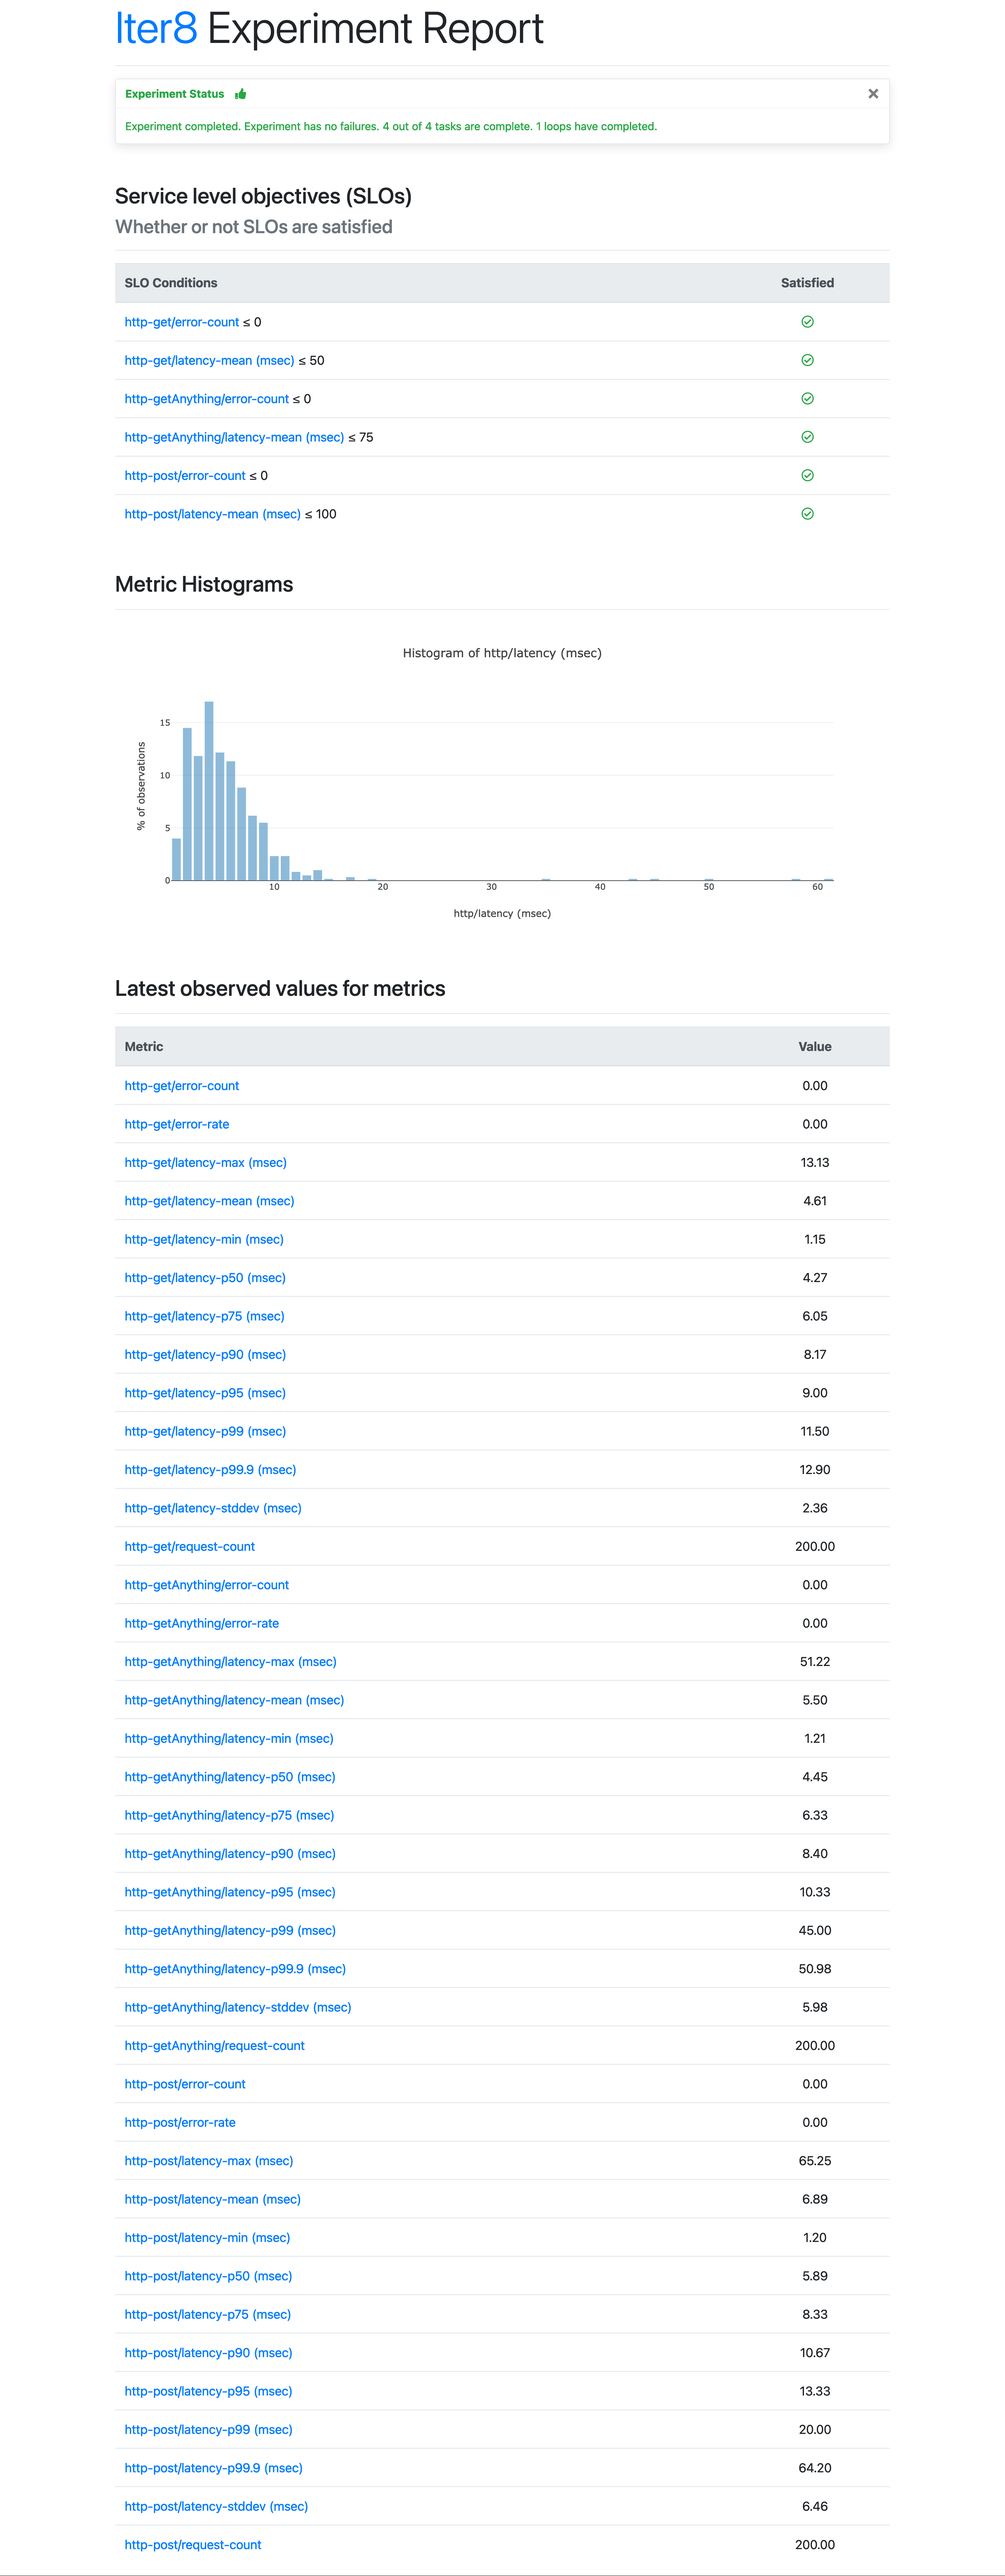
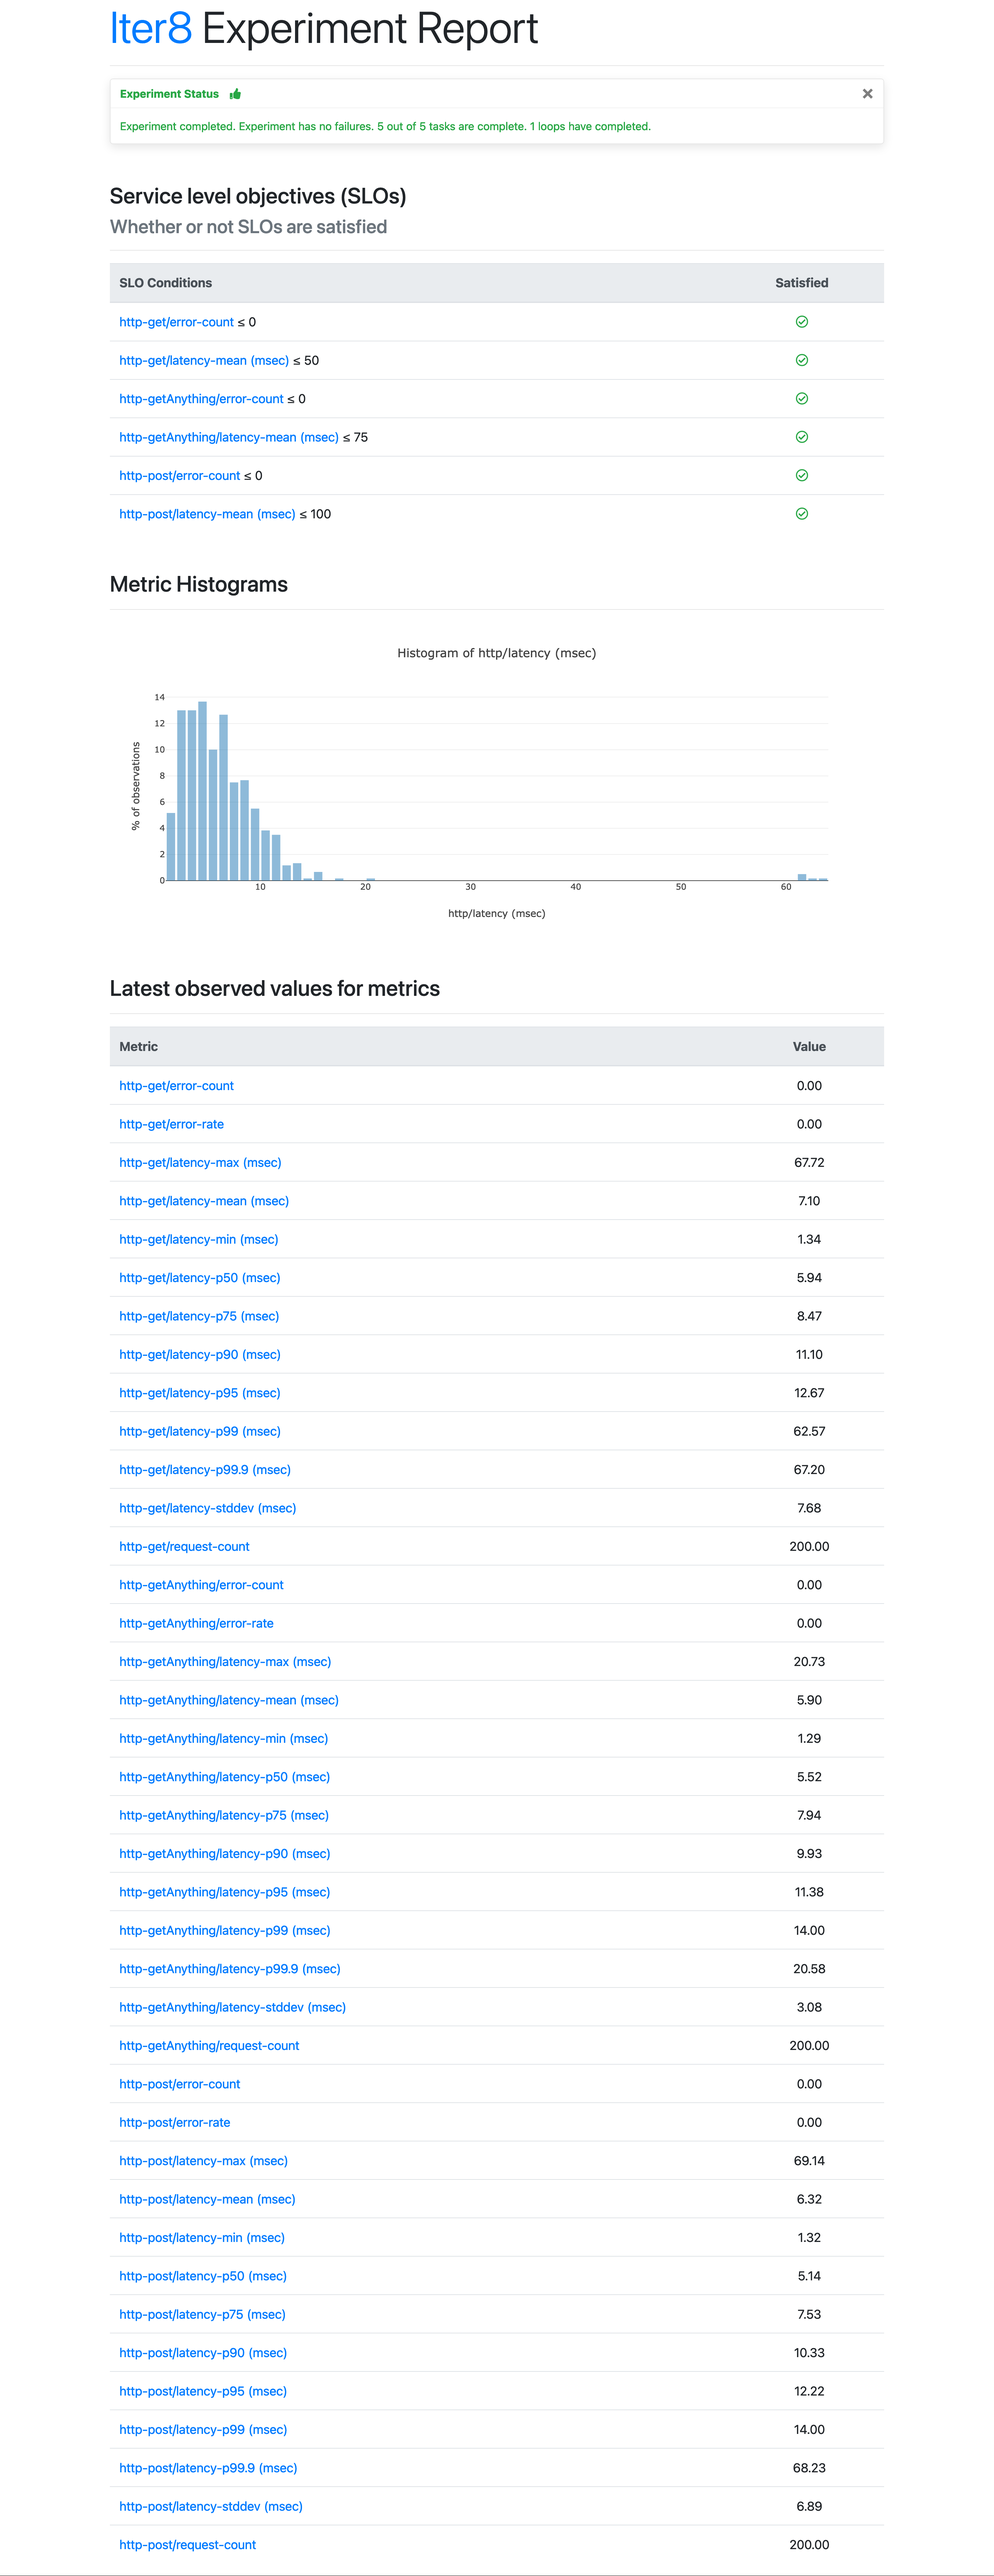
Add warmup

diff --git a/README.md b/README.md
@@ -64,6 +64,7 @@ helm install autox autox --repo https://iter8-tools.github.io/hub/ --version 0.1
 --set groups.httpbin.specs.iter8.values.ready.service=httpbin \
 --set groups.httpbin.specs.iter8.values.ready.timeout=60s \
 --set groups.httpbin.specs.iter8.values.http.numRequests=200 \
+--set groups.httpbin.specs.iter8.values.http.warmupDuration=5s \
 --set groups.httpbin.specs.iter8.values.http.endpoints.get.url=http://httpbin.default/get \
 --set groups.httpbin.specs.iter8.values.http.endpoints.getAnything.url=http://httpbin.default/anything \
 --set groups.httpbin.specs.iter8.values.http.endpoints.post.url=http://httpbin.default/post \
@@ -84,7 +85,7 @@ To go into more detail, the configuration is composed of a set of *groups*, and 
 
 The trigger object definition is a combination of the name, namespace, and the group-version-resource (GVR) metadata of the trigger object, in this case `httpbin`, `default`, and GVR `apps`, `deployments`, and `v1`, respectively. 
 
-The experiment is an HTTP SLO validation test on the `httpbin` service that is described in greater detail [here](https://iter8.tools/0.13/getting-started/your-first-experiment/). This Iter8 experiment is composed of three tasks, `ready`, `http`, and `assess`. The `ready` task will ensure that the `httpbin` deployment and service are running. The `http` task will generate load for the specified endpoints, `get`, `getAnything`, and `post`, and collect latency and error-related metrics. Lastly, the `assess` task will ensure that the error count is 0 for each endpoint and the mean latency is less than 50, 75, and 100 milliseconds for `get`, `getAnything`, and `post`, respectively. In addition, the runner is set to job as this will be a [single-loop experiment](https://iter8.tools/0.11/getting-started/concepts/#iter8-experiment).
+The experiment is an HTTP SLO validation test on the `httpbin` service that is described in greater detail [here](https://iter8.tools/0.13/getting-started/your-first-experiment/). This Iter8 experiment is composed of three tasks, `ready`, `http`, and `assess`. The `ready` task will ensure that the `httpbin` deployment and service are running. The `http` task will generate load for the specified endpoints, `get`, `getAnything`, and `post`, and collect latency and error-related metrics. In addition, thanks to the `warmup` parameter, the `http` task will only begin to send load after five seconds to ensure that the application has had enough time to run fully functionally. Lastly, the `assess` task will ensure that the error count is 0 for each endpoint and the mean latency is less than 50, 75, and 100 milliseconds for `get`, `getAnything`, and `post`, respectively. In addition, the runner is set to job as this will be a [single-loop experiment](https://iter8.tools/0.11/getting-started/concepts/#iter8-experiment).
 
 ### Observe experiment
 
@@ -118,8 +119,8 @@ iter8 k report -g autox-httpbin-iter8
 
   Experiment completed: true
   No task failures: true
-  Total number of tasks: 4
-  Number of completed tasks: 4
+  Total number of tasks: 5
+  Number of completed tasks: 5
   Number of completed loops: 1
 
 Whether or not service level objectives (SLOs) are satisfied:
@@ -142,42 +143,42 @@ Latest observed values for metrics:
   -------                                | -----
   http-get/error-count                   | 0.00
   http-get/error-rate                    | 0.00
-  http-get/latency-max (msec)            | 13.13
-  http-get/latency-mean (msec)           | 4.61
-  http-get/latency-min (msec)            | 1.15
-  http-get/latency-p50 (msec)            | 4.27
-  http-get/latency-p75 (msec)            | 6.05
-  http-get/latency-p90 (msec)            | 8.17
-  http-get/latency-p95 (msec)            | 9.00
-  http-get/latency-p99 (msec)            | 11.50
-  http-get/latency-p99.9 (msec)          | 12.90
-  http-get/latency-stddev (msec)         | 2.36
+  http-get/latency-max (msec)            | 67.72
+  http-get/latency-mean (msec)           | 7.10
+  http-get/latency-min (msec)            | 1.34
+  http-get/latency-p50 (msec)            | 5.94
+  http-get/latency-p75 (msec)            | 8.47
+  http-get/latency-p90 (msec)            | 11.10
+  http-get/latency-p95 (msec)            | 12.67
+  http-get/latency-p99 (msec)            | 62.57
+  http-get/latency-p99.9 (msec)          | 67.20
+  http-get/latency-stddev (msec)         | 7.68
   http-get/request-count                 | 200.00
   http-getAnything/error-count           | 0.00
   http-getAnything/error-rate            | 0.00
-  http-getAnything/latency-max (msec)    | 51.22
-  http-getAnything/latency-mean (msec)   | 5.50
-  http-getAnything/latency-min (msec)    | 1.21
-  http-getAnything/latency-p50 (msec)    | 4.45
-  http-getAnything/latency-p75 (msec)    | 6.33
-  http-getAnything/latency-p90 (msec)    | 8.40
-  http-getAnything/latency-p95 (msec)    | 10.33
-  http-getAnything/latency-p99 (msec)    | 45.00
-  http-getAnything/latency-p99.9 (msec)  | 50.98
-  http-getAnything/latency-stddev (msec) | 5.98
+  http-getAnything/latency-max (msec)    | 20.73
+  http-getAnything/latency-mean (msec)   | 5.90
+  http-getAnything/latency-min (msec)    | 1.29
+  http-getAnything/latency-p50 (msec)    | 5.52
+  http-getAnything/latency-p75 (msec)    | 7.94
+  http-getAnything/latency-p90 (msec)    | 9.93
+  http-getAnything/latency-p95 (msec)    | 11.38
+  http-getAnything/latency-p99 (msec)    | 14.00
+  http-getAnything/latency-p99.9 (msec)  | 20.58
+  http-getAnything/latency-stddev (msec) | 3.08
   http-getAnything/request-count         | 200.00
   http-post/error-count                  | 0.00
   http-post/error-rate                   | 0.00
-  http-post/latency-max (msec)           | 65.25
-  http-post/latency-mean (msec)          | 6.89
-  http-post/latency-min (msec)           | 1.20
-  http-post/latency-p50 (msec)           | 5.89
-  http-post/latency-p75 (msec)           | 8.33
-  http-post/latency-p90 (msec)           | 10.67
-  http-post/latency-p95 (msec)           | 13.33
-  http-post/latency-p99 (msec)           | 20.00
-  http-post/latency-p99.9 (msec)         | 64.20
-  http-post/latency-stddev (msec)        | 6.46
+  http-post/latency-max (msec)           | 69.14
+  http-post/latency-mean (msec)          | 6.32
+  http-post/latency-min (msec)           | 1.32
+  http-post/latency-p50 (msec)           | 5.14
+  http-post/latency-p75 (msec)           | 7.53
+  http-post/latency-p90 (msec)           | 10.33
+  http-post/latency-p95 (msec)           | 12.22
+  http-post/latency-p99 (msec)           | 14.00
+  http-post/latency-p99.9 (msec)         | 68.23
+  http-post/latency-stddev (msec)        | 6.89
   http-post/request-count                | 200.00 -->
 
 You can also produce an HTML report that you can view in the browser.
@@ -256,11 +257,12 @@ helm install autox autox --repo https://iter8-tools.github.io/hub/ --version 0.1
 --set groups.routeguide.specs.iter8.values.ready.service=routeguide \
 --set groups.routeguide.specs.iter8.values.ready.timeout=60s \
 --set groups.routeguide.specs.iter8.values.grpc.host=routeguide.default:50051 \
+--set groups.routeguide.specs.iter8.values.grpc.protoURL=https://raw.githubusercontent.com/iter8-tools/docs/v0.13.13/samples/route_guide/routeguide/route_guide.proto \
+--set groups.routeguide.specs.iter8.values.grpc.warmupDuration=5s \
 --set groups.routeguide.specs.iter8.values.grpc.endpoints.getFeature.call=routeguide.RouteGuide.GetFeature \
 --set groups.routeguide.specs.iter8.values.grpc.endpoints.getFeature.dataURL=https://raw.githubusercontent.com/iter8-tools/docs/v0.13.13/samples/grpc-payload/unary.json \
 --set groups.routeguide.specs.iter8.values.grpc.endpoints.listFeatures.call=routeguide.RouteGuide.ListFeatures \
 --set groups.routeguide.specs.iter8.values.grpc.endpoints.listFeatures.dataURL=https://raw.githubusercontent.com/iter8-tools/docs/v0.13.13/samples/grpc-payload/server.json \
---set groups.routeguide.specs.iter8.values.grpc.protoURL=https://raw.githubusercontent.com/iter8-tools/docs/v0.13.13/samples/route_guide/routeguide/route_guide.proto \
 --set groups.routeguide.specs.iter8.values.assess.SLOs.upper.grpc-getFeature/error-count=0 \
 --set groups.routeguide.specs.iter8.values.assess.SLOs.upper.grpc-getFeature/latency/mean=50 \
 --set groups.routeguide.specs.iter8.values.assess.SLOs.upper.grpc-listFeatures/error-count=0 \
@@ -275,7 +277,7 @@ In this tutorial, there is only one group named `routeguide` (`groups.routeguide
 
 The trigger object definition is a combination of the name, namespace, and the group-version-resource (GVR) metadata of the trigger object, in this case `routeguide`, `default`, and GVR `apps`, `deployments`, and `v1`, respectively.
 
-The experiment is a gRPC SLO validation test on the `routeguide` service that is described in greater detail [here](https://iter8.tools/0.13/tutorials/load-test-grpc/). This Iter8 experiment is composed of three tasks, `ready`, `grpc`, and `assess`. The `ready` task will ensure that the `routeguide` deployment and service are running. The `grpc` task will generate load for the specified endpoints, `getFeature` and `listFeatures`, and collect latency and error-related metrics. Lastly, the `assess` task will ensure that the error count is 0 for both endpoints and the mean latency is less than 50 and 100 milliseconds for `getFeature` and `listFeatures`, respectively. In addition, the runner is set to job as this will be a [single-loop experiment](https://iter8.tools/0.11/getting-started/concepts/#iter8-experiment).
+The experiment is a gRPC SLO validation test on the `routeguide` service that is described in greater detail [here](https://iter8.tools/0.13/tutorials/load-test-grpc/). This Iter8 experiment is composed of three tasks, `ready`, `grpc`, and `assess`. The `ready` task will ensure that the `routeguide` deployment and service are running. The `grpc` task will generate load for the specified endpoints, `getFeature` and `listFeatures`, and collect latency and error-related metrics. In addition, thanks to the `warmup` parameter, the `grpc` task will only begin to send load after five seconds to ensure that the application has had enough time to run fully functionally. Lastly, the `assess` task will ensure that the error count is 0 for both endpoints and the mean latency is less than 50 and 100 milliseconds for `getFeature` and `listFeatures`, respectively. In addition, the runner is set to job as this will be a [single-loop experiment](https://iter8.tools/0.11/getting-started/concepts/#iter8-experiment).
 
 ### Observe experiment
 
